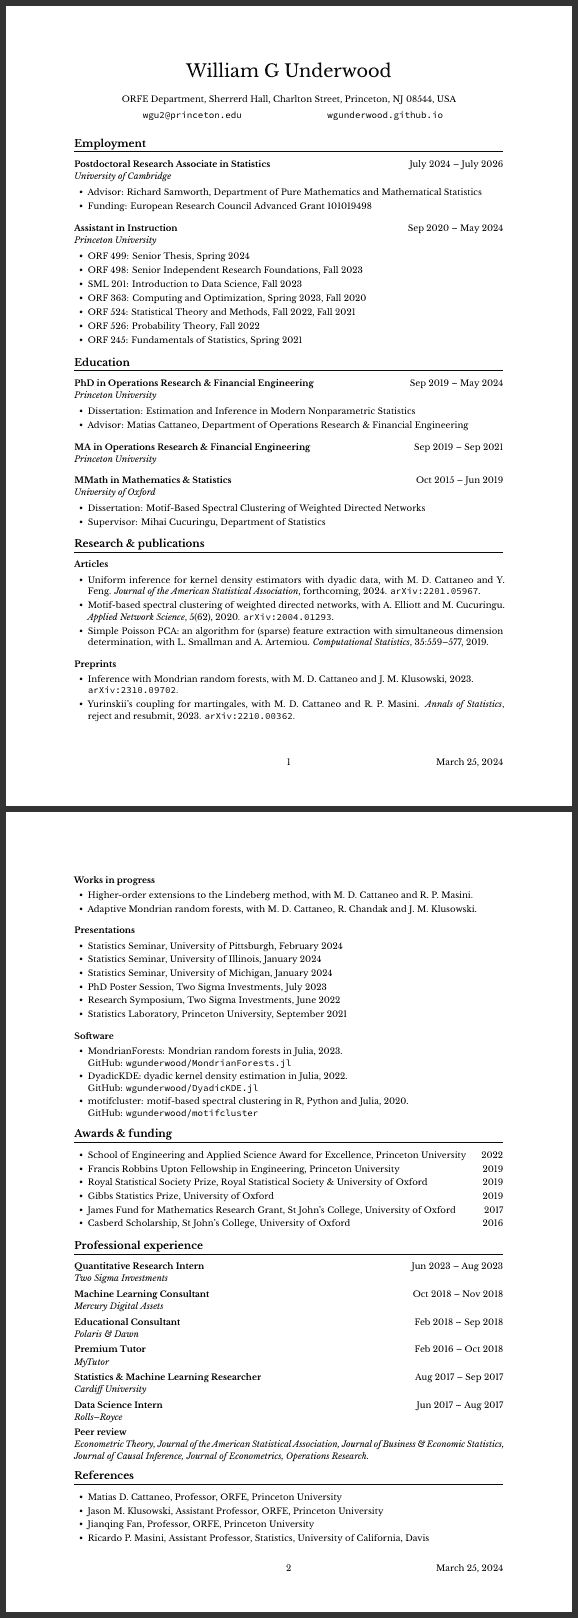
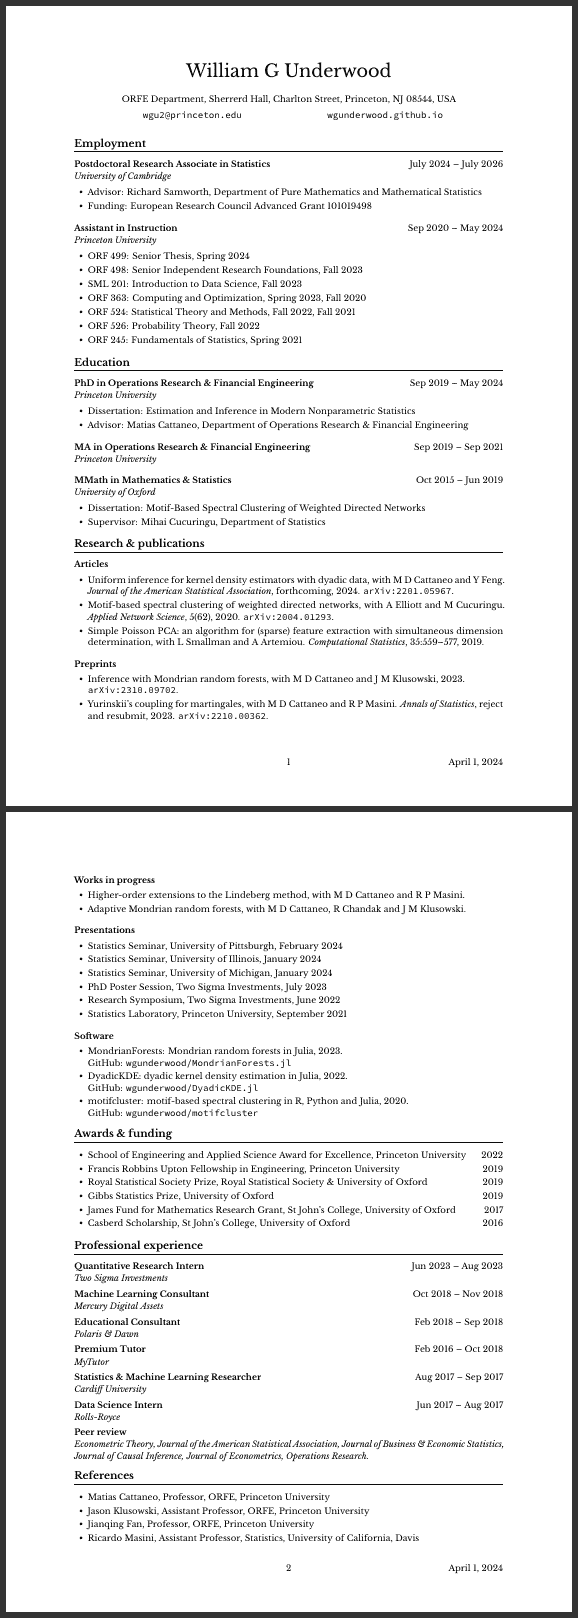
dots

diff --git a/WGUnderwood.tex b/WGUnderwood.tex
@@ -108,18 +108,18 @@
 \begin{itemize}
 
   \item Uniform inference for kernel density estimators with dyadic data,
-    with M.\ D.\ Cattaneo and Y.\ Feng.
+    with M D Cattaneo and Y Feng.
     \emph{Journal of the American Statistical Association}, forthcoming, 2024.
     \arxiv{2201.05967}.
 
   \item Motif-based spectral clustering of weighted directed networks,
-    with A.\ Elliott and M.\ Cucuringu.
+    with A Elliott and M Cucuringu.
     \emph{Applied Network Science}, 5(62), 2020.
     \arxiv{2004.01293}.
 
   \item Simple Poisson PCA: an algorithm for (sparse) feature extraction
     with simultaneous dimension determination,
-    with L.\ Smallman and A.\ Artemiou.
+    with L Smallman and A Artemiou.
     \emph{Computational Statistics}, 35:559--577, 2019.
 
 \end{itemize}
@@ -128,11 +128,11 @@
 \begin{itemize}
 
   \item Inference with Mondrian random forests,
-    with M.\ D.\ Cattaneo and J.\ M.\ Klusowski, 2023. \\
+    with M D Cattaneo and J M Klusowski, 2023. \\
     \arxiv{2310.09702}.
 
   \item Yurinskii's coupling for martingales,
-    with M.\ D.\ Cattaneo and R.\ P.\ Masini.
+    with M D Cattaneo and R P Masini.
     \emph{Annals of Statistics}, reject and resubmit, 2023.
     \arxiv{2210.00362}.
 
@@ -144,10 +144,10 @@
 \begin{itemize}
 
   \item Higher-order extensions to the Lindeberg method,
-    with M.\ D.\ Cattaneo and R.\ P.\ Masini.
+    with M D Cattaneo and R P Masini.
 
   \item Adaptive Mondrian random forests,
-    with M.\ D.\ Cattaneo, R.\ Chandak and J.\ M.\ Klusowski.
+    with M D Cattaneo, R Chandak and J M Klusowski.
 \end{itemize}
 
 \subsection{Presentations}{}
@@ -229,7 +229,7 @@
 
 \subsection{Data Science Intern}
 {Jun 2017 -- Aug 2017}
-\subsubsection{Rolls--Royce}
+\subsubsection{Rolls-Royce}
 \vspace{-0.20cm}
 
 \subsection{Peer review}{}
@@ -247,13 +247,13 @@ Operations Research.}
 \begin{itemize}
 
   \item
-    Matias D.\ Cattaneo,
+    Matias Cattaneo,
     Professor,
     ORFE,
     Princeton University
 
   \item
-    Jason M.\ Klusowski,
+    Jason Klusowski,
     Assistant Professor,
     ORFE,
     Princeton University
@@ -265,7 +265,7 @@ Operations Research.}
     Princeton University
 
   \item
-    Ricardo P.\ Masini,
+    Ricardo Masini,
     Assistant Professor,
     Statistics,
     University of California, Davis
